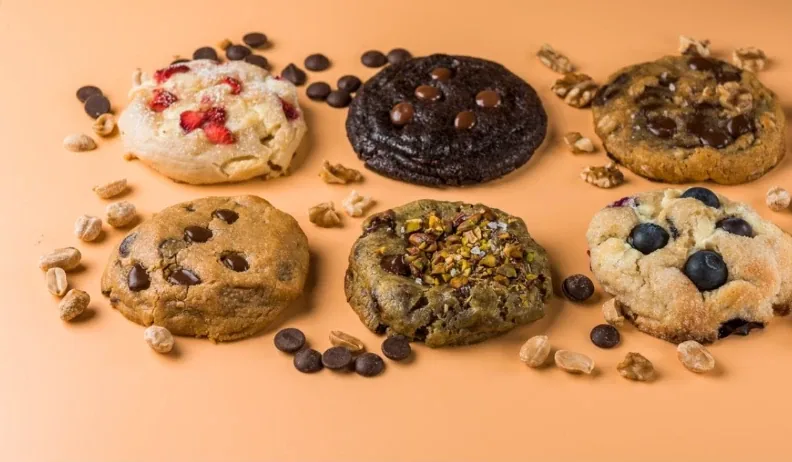
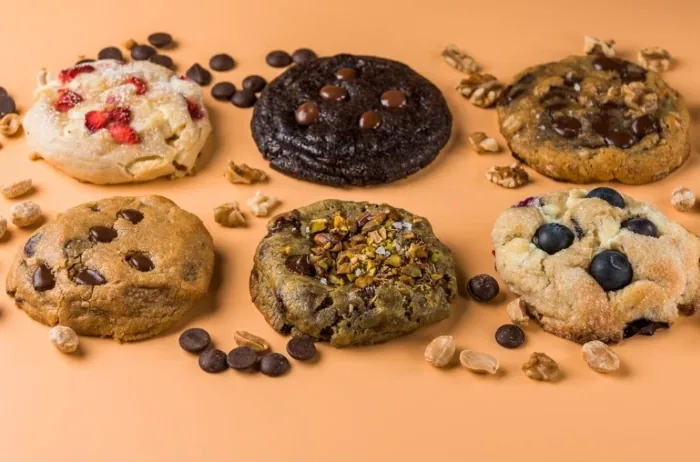
Reviews: initials only, shortened review, new subtitle; centred photo
- Reviewers shown by initials to protect their personal data
- Remove the last two paragraphs of one review (owner's request)
- Subtitle: "Τι λένε για εμάς οι πελάτες." / "What our customers say about us."
- Re-crop the six-cookie studio shot so the middle column of cookies
  sits exactly in the centre of the hero frame (and in offers)

Claude-Session: https://claude.ai/code/session_013tMGASR9nenmrdyYnEW2Gv

diff --git a/src/content/reviews.ts b/src/content/reviews.ts
@@ -5,7 +5,8 @@ import { MAPS_SEARCH_URL } from "./business";
  *
  * Genuine Google Maps reviews of The Cookie Spot, copied word for word (spelling, line breaks
  * and emoji as written) from screenshots supplied by the owner on 2026-11-09. All five are
- * 5-star. Google shows only relative dates ("3 months ago"), so dates are not displayed — they
+ * 5-star. Reviewers are shown by initials only, to protect their personal data. One review is
+ * shortened at the owner's request (its last two paragraphs removed). Google shows only relative dates ("3 months ago"), so dates are not displayed — they
  * would go stale on a static site. Never edit the wording or add reviews you cannot see.
  */
 export interface Review {
@@ -21,23 +22,23 @@ const g = (author: string, text: string): Review => ({ author, text, lang: "el",
 
 export const reviews: Review[] = [
   g(
-    "Ιωάννα Μελένια",
-    "Πήγα για «ένα cookie να δοκιμάσω» και έφυγα με σακούλα. 😂🍪\n\nΜέτρησα πάνω από 10 διαφορετικές γεύσεις, η μία καλύτερη από την άλλη! Εμείς πήραμε λεμόνι, φυστίκι, Oreo, triple chocolate και δύο vegan. Όλα εξαιρετικά.\n\nΑν είστε πολλά άτομα αξίζει να δοκιμάσετε και το brookie, που πρακτικά είναι σαν ένα τεράστιο, οικογενειακό cookie σε ταψάκι… και ΑΥΤΟ θέλει οπωσδήποτε παγωτό από πάνω!\n\nΓια μένα, το ότι υπάρχουν vegan επιλογές είναι μεγάλο plus!\n\nΕξυπηρετήθηκα γρήγορα και ευγενικά, αλλά αυτό μπορεί να γίνει και και μέσω delivery platforms, για όποιον δεν είναι σε walking distance. Εγώ πήρα και καφεδάκι για το δρόμο.",
+    "Ι. Μ.",
+    "Πήγα για «ένα cookie να δοκιμάσω» και έφυγα με σακούλα. 😂🍪\n\nΜέτρησα πάνω από 10 διαφορετικές γεύσεις, η μία καλύτερη από την άλλη! Εμείς πήραμε λεμόνι, φυστίκι, Oreo, triple chocolate και δύο vegan. Όλα εξαιρετικά.\n\nΑν είστε πολλά άτομα αξίζει να δοκιμάσετε και το brookie, που πρακτικά είναι σαν ένα τεράστιο, οικογενειακό cookie σε ταψάκι… και ΑΥΤΟ θέλει οπωσδήποτε παγωτό από πάνω!",
   ),
   g(
-    "Thanos Gizas",
+    "T. G.",
     "Αν είσαι λάτρης του πραγματικά καλού cookie, το The Cookie Spot αξίζει σίγουρα μια δοκιμή. Τα cookies είναι πεντανόστιμα, το μπρούκι εξαιρετικό και ο καφές επίσης πολύ καλός. Ξεχωρίζω όμως και την εξυπηρέτηση, καθώς το προσωπικό είναι ευγενικό, χαμογελαστό και πολύ εξυπηρετικό. Όλα δείχνουν προσεγμένα και ποιοτικά, από τα προϊόντα μέχρι τον τρόπο που σε υποδέχονται. Σίγουρα ένα μέρος που αξίζει να επισκεφθείς και να ξαναπάς!",
   ),
   g(
-    "Nefeli Ataman",
+    "N. A.",
     "Από τα καλύτερα μπισκοτα που εχω δοκιμάσει στην Αθήνα! Πρέπει οπωσδήποτε να δοκιμάσετε το poppy seed lemon και το triple chocolate και γενικα αν είστε φαν των μπισκότων εχει άπειρες γεύσεις να δοκιμάσετε",
   ),
   g(
-    "Eirini Ainatzioglou",
+    "E. A.",
     "Είχα ακούσει τόσα πολλά για τα μπισκότα τους που αποφάσισα να πάω να τα δοκιμάσω και πραγματικά άξιζε 100%! Όλα ήταν καταπληκτικά, φρέσκα και πεντανόστιμα. Μου άρεσε ιδιαίτερα το γεγονός ότι φτιάχνονται όλα εκεί, κάτι που φαίνεται και στη γεύση και στην ποιότητα.",
   ),
   g(
-    "valia sp",
+    "V. S.",
     "Είχε μεγάλη ποικιλία γεύσεων σε μπισκότα! Μου άρεσε πάρα πολύ το μπισκότο biscuit και κακάο, έλιωνε στο στόμα σου! Εννοείτε και το brown ήταν πεντανόστιμο ιδικά που είχε από πάνω την καραμέλα το απογείωνε! Είχε πάρα πολύ καλή εξυπηρέτηση από τις κοπέλες στο κατάστημα! Εννοείτε προτείνω ανεπιφύλακτα να το δοκιμάσετε!",
   ),
 ];

diff --git a/src/app/globals.css b/src/app/globals.css
@@ -182,7 +182,7 @@ address { font-style: normal; }
 .hero__facts dd { margin: 0; color: var(--brown-700); text-align: right; }
 .hero__media { position: relative; width: min(100%, 540px); margin-inline: auto; padding: 0 0 36px 28px; }
 .hero__photo { position: relative; aspect-ratio: 923 / 1122; border-radius: 220px 220px var(--r-xl) var(--r-xl); overflow: hidden; background: var(--orange); box-shadow: var(--shadow-lg); }
-.hero__polaroid { position: absolute; left: 0; bottom: 0; width: 46%; aspect-ratio: 792 / 462; border: 8px solid var(--white); border-radius: 12px; overflow: hidden; box-shadow: var(--shadow-lg); rotate: -5deg; animation: rise 0.9s 0.35s var(--ease) both; }
+.hero__polaroid { position: absolute; left: 0; bottom: 0; width: 46%; aspect-ratio: 700 / 462; border: 8px solid var(--white); border-radius: 12px; overflow: hidden; box-shadow: var(--shadow-lg); rotate: -5deg; animation: rise 0.9s 0.35s var(--ease) both; }
 .hero__script { position: absolute; right: 4%; bottom: 2px; font-family: var(--script); font-weight: 700; font-size: clamp(1.6rem, 4vw, 2.3rem); color: var(--orange-deep); rotate: -4deg; animation: rise 0.9s 0.5s var(--ease) both; }
 @media (min-width: 640px) { .hero__facts { grid-template-columns: repeat(3, 1fr); border-bottom: 1px solid var(--rule); } .hero__facts > div { display: grid; gap: 2px; padding: 14px 16px 14px 0; border-bottom: 0; } .hero__facts > div + div { border-left: 1px solid var(--rule); padding-left: 16px; } .hero__facts dd { text-align: left; font-size: 0.95rem; } }
 @media (min-width: 1000px) {

diff --git a/src/content/media.ts b/src/content/media.ts
@@ -16,7 +16,7 @@ const img = (src: string, width: number, height: number, el: string, en: string)
 
 export const media = {
   hero: img("brand/we-bake-it-personally", 923, 1122, "Χέρια κρατούν στοίβα από Cookies & Cream μπροστά σε πορτοκαλί φόντο με τη φράση «We bake it personally»", "Hands holding a stack of Cookies & Cream cookies against orange, with the line “We bake it personally”"),
-  peachSix: img("brand/peach-six", 792, 462, "Έξι cookies σε πορτοκαλί φόντο με κομμάτια σοκολάτας και ξηρούς καρπούς", "Six cookies on a peach background with chocolate drops and nuts"),
+  peachSix: img("brand/peach-six", 700, 462, "Έξι cookies σε πορτοκαλί φόντο με κομμάτια σοκολάτας και ξηρούς καρπούς", "Six cookies on a peach background with chocolate drops and nuts"),
   peachTen: img("brand/peach-ten", 923, 462, "Δέκα διαφορετικά cookies σε δύο σειρές", "Ten different cookies in two rows"),
   storefront: img("brand/storefront", 923, 614, "Η βιτρίνα του The Cookie Spot στη Λεωφ. Κηφισίας 129", "The Cookie Spot shop window on Leof. Kifisias 129"),
   counter: img("brand/counter", 923, 614, "Ο πάγκος με φρεσκοψημένα cookies και χειρόγραφες ετικέτες τιμών", "The counter with freshly baked cookies and handwritten price cards"),

diff --git a/src/i18n/dictionaries.ts b/src/i18n/dictionaries.ts
@@ -126,7 +126,7 @@ const en = {
   reviews: {
     eyebrow: "Reviews",
     title: "Don't take our word for it.",
-    lead: "What our customers say on Google.",
+    lead: "What our customers say about us.",
     google: "All reviews on Google",
     via: "via",
     prev: "Previous review",
@@ -326,7 +326,7 @@ const el: Dictionary = {
   reviews: {
     eyebrow: "Κριτικές",
     title: "Μην πιστεύεις στον λόγο μας.",
-    lead: "Τι λένε οι πελάτες μας στο Google.",
+    lead: "Τι λένε για εμάς οι πελάτες.",
     google: "Όλες οι κριτικές στο Google",
     via: "μέσω",
     prev: "Προηγούμενη κριτική",

diff --git a/README.md b/README.md
@@ -166,7 +166,7 @@ Also recommended:
 - **Combos:** prices depend on the cookies chosen, so they are shown as "from".
 - **Address and phone:** from the Wolt and Tripadvisor listings.
 - **Hours:** from the Wolt listing. `business.verifiedAgainstGoogleProfile` is `false`. Confirm the hours against the Google Business Profile, then flip it.
-- **Reviews:** a carousel of 5 genuine 5-star Google reviews, copied word for word from Google Maps screenshots supplied by the owner (`src/content/reviews.ts`). Dates are left out because Google only shows relative dates ("3 months ago"), which would go out of date.
+- **Reviews:** a carousel of 5 genuine 5-star Google reviews, copied word for word from Google Maps screenshots supplied by the owner (`src/content/reviews.ts`). Reviewers appear by initials only, to protect their data; one review is shortened at the owner's request. Dates are left out because Google only shows relative dates ("3 months ago"), which would go out of date.
 - **Not on the site:**
   - Cookie Dippers: not in Wolt's current categories.
   - Strawberry cookie and the frosted cookie cake: seen on Instagram but not on Wolt. The strawberry cookie appears only as a gallery photo.
